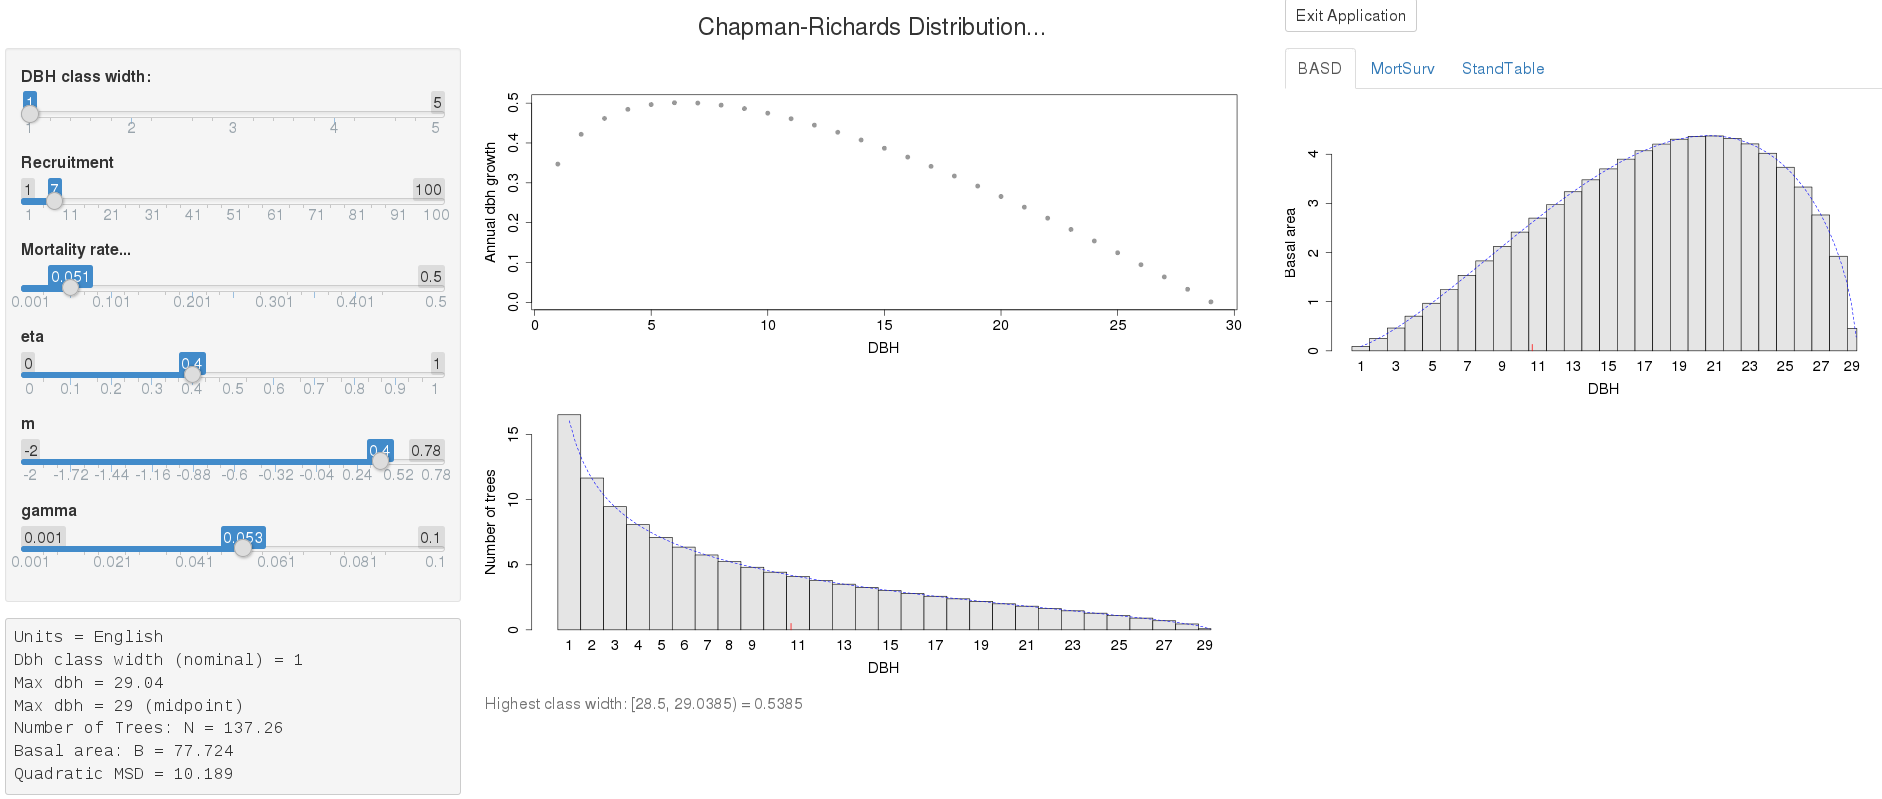
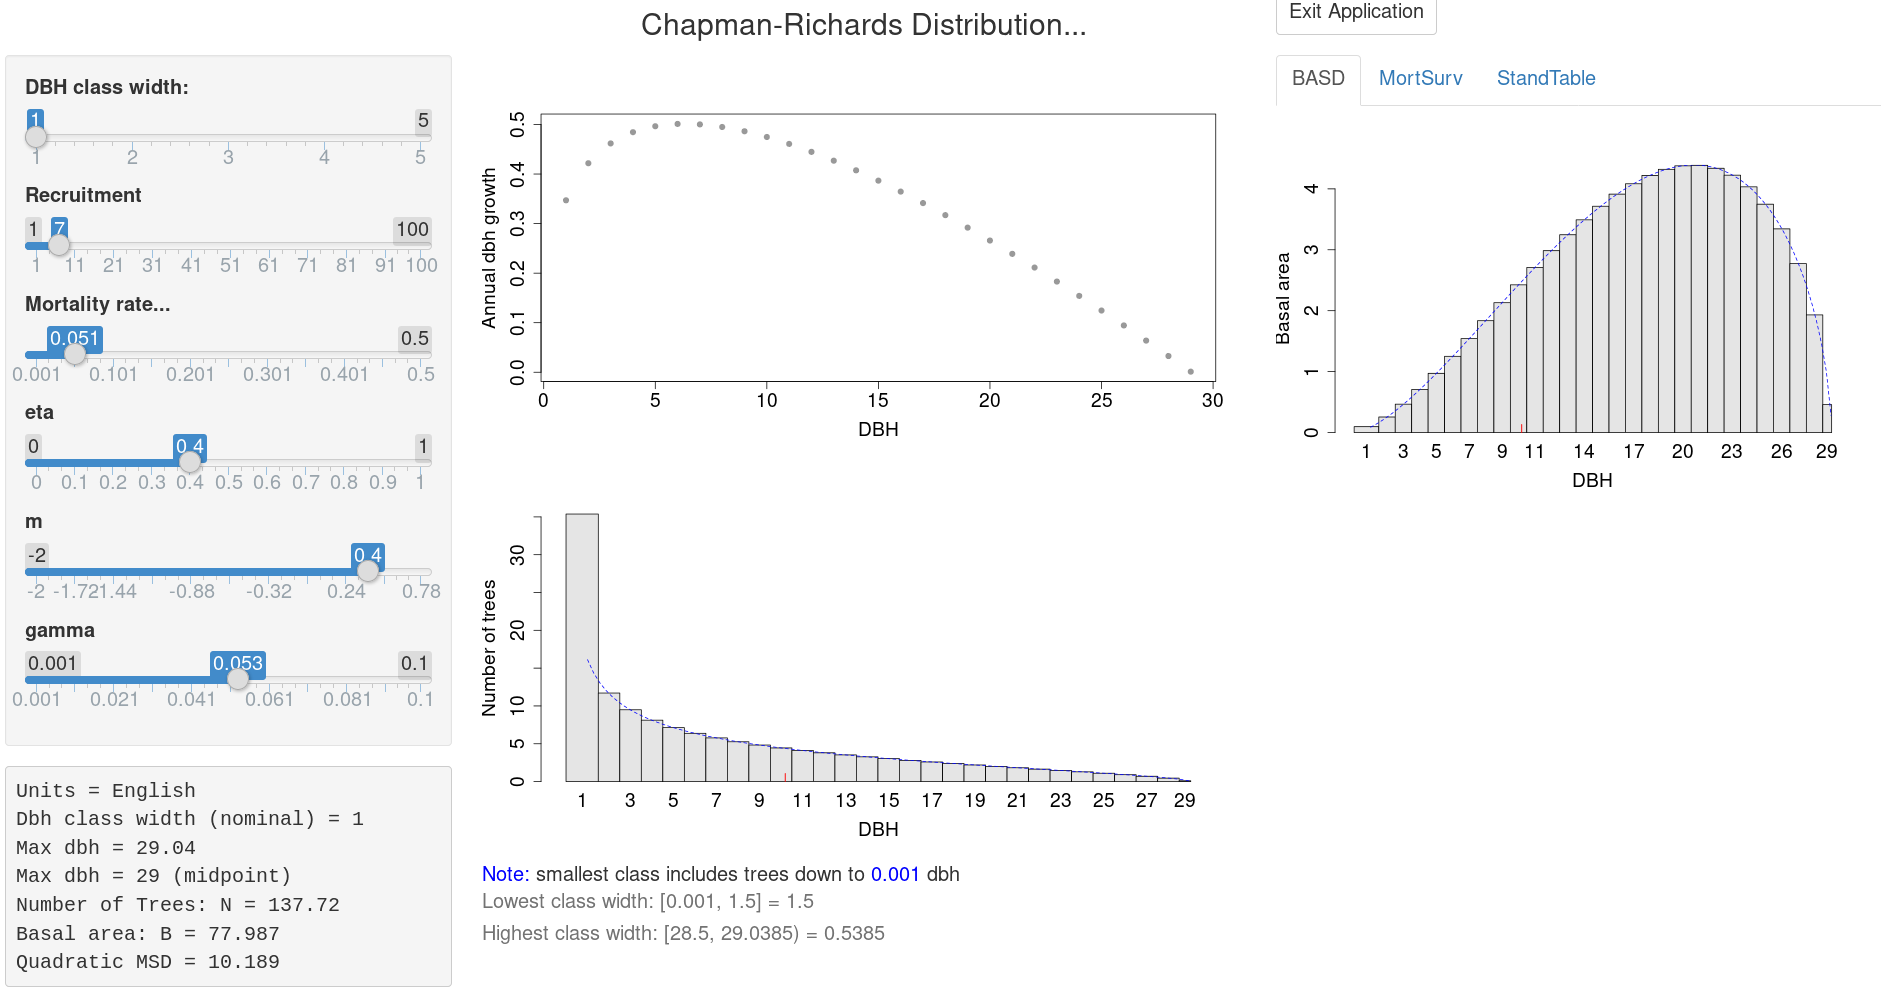
a couple changes to www
git-svn-id: svn://svn.r-forge.r-project.org/svnroot/mensuration@9 edb9625f-4e0d-4859-8d74-9fd3b1da38cb

diff --git a/www/index.html b/www/index.html
@@ -134,9 +134,24 @@
 
 <Rcode>install.packages("Mensuration", repos="http://R-Forge.R-project.org")</Rcode><br><br>
 
-Currently, the <Rpkg>Mensuration</Rpkg> package is 'stand-alone,' and does not rely on any
-other R packages.
+Currently, the <Rpkg>Mensuration</Rpkg> package relies on the R Shiny package.
 </p>
+
+<p> In order to use the Shiny applications, the <Rpkg>Mensuration</Rpkg> package requires
+    that the following package be installed prior to use. It is best to install the most
+    recent version from <acronym>CRAN</acronym> as&hellip;<br><br>
+
+  <Rcode>install.packages("shiny")</Rcode><br><br>
+
+    An optional package that will present tables in a more useable manner (see examples
+    below) is the <a href="https://rstudio.github.io/DT/"><Rpkg>DT</Rpkg> package</a>,
+    which supports JavaScript "DataTables"; this package is recommend and can be installed
+    with&hellip;<br><br>
+
+  <Rcode>install.packages("DT")</Rcode><br><br>
+
+</p>
+
 
 
 
@@ -151,10 +166,10 @@ versions if desired&hellip;
 
 <ol>
 
-  <li><!--<a href="https://r-forge.r-project.org/scm/viewvc.php/*checkout*/pkg/inst/doc/Mensuration.pdf?root=mensuration">-->
+  <li><a href="https://r-forge.r-project.org/scm/viewvc.php/*checkout*/pkg/inst/doc/Mensuration.pdf?root=mensuration">
 	  <em> The help file for the <Rclass>Mensuration</Rclass> Package </em></a><br><br>
 
-  <li><!--<a href="https://r-forge.r-project.org/scm/viewvc.php/*checkout*/pkg/inst/doc/Mensuration.pdf?root=mensuration">-->
+  <li><!--<a href="https://r-forge.r-project.org/scm/viewvc.php/*checkout*/pkg/inst/doc/MensurationUsersGuide.pdf?root=mensuration">-->
 	  Available soon&hellip;
 	  <em> The R <Rclass>Mensuration</Rclass> Package User's Guide </em></a><br><br>
 
@@ -186,13 +201,14 @@ The following paper details the development of the Chapman-Richards distribution
 Several examples of the supporting functions are shown in the package vignette cited
 above. Because of the interavtive nature of Shiny applications, only a screen shot of each
 application is shown here. Again, a more detailed narrative on each application is found
-in the package vignette.
+in the package vignette. The best course of action is to simply install the package and
+its dependency (Shiny) and give it a try.
 </p>
 
 
 <h3><Rcode>qDistnShiny</Rcode></h3>
 
-<p> The following is a snapshot of the interface that allows one to invision
+<p> The following is a snapshot of the interface that allows one to explore
   different <em>q</em> distibutions using the sliders to the left&hellip;
 </p>
 
@@ -207,9 +223,10 @@ in the package vignette.
 
 <h3><Rcode>crDistnShiny</Rcode></h3>
 
-<p> Similarly to the above, the following is a snapshot of the interface that allows one to invision
-  different Chapman-Richards distibutions using the sliders to the left; the following
-  shows a "rotated-sigmoid" distribution that is the default&hellip;
+<p> Similarly to the above, the following is a snapshot of the interface that allows one
+  to explore different Chapman-Richards distibutions using the sliders to the left; the
+  following shows a "rotated-sigmoid" distribution accompanied by the basal area-size
+  distribution (BASD); which are the defaults at creation time&hellip;
 </p>
 
 <!-- crDistnShiny -->
@@ -220,7 +237,17 @@ in the package vignette.
 
 <p> Note that the sliders are used to set the parameters of the Chapman-Richards growth
   equations (eta, m, and gamma) and the two other vital rates of the distribution:
-  Recruitment and Mmortality. 
+  "Recruitment" and "Mortality rate." More information on these parameter values and how
+  they affect the growth and resulting distributional shapes is given in the vignette and
+  the paper cited above. Also note that the figure shows all trees down to the very
+  smallest in the first class (in order to capture most of the numbers density in that
+  class near zero), which we are told is wider than the nominal width; this option may be
+  selected by calling the routine using: <Rcode>crDistnShiny(d0 = 0.001, includeTiny =
+  TRUE)</Rcode> (see the help page for more information on these and other arguments). We
+  are also told that the largest class is different from the nominal size, this results
+  because the Chapman-Richards growth model has a maximum size limit, which is inherited
+  by the distribution. The quadratic mean stand diameter is shown on both distributions
+  with the small red tick mark.
 </p>
 
 <p>The above is accompanied by the basal area-size distribution on the right of the
@@ -247,6 +274,25 @@ in the package vignette.
 </div>
 
 
+
+<h3> Summary </h3>
+
+<p> There are a number of other options for both of the Shiny applications illustrated
+  above---these are detailed in the package help pages, as are the other routines
+  available in the package. Both of the Shiny applications allow the user to explore the
+  results on distributional shape by changing the parameters for the respective
+  distribitions interactively in real time. The <em>q</em> distribution will always have a
+  negative exponential shape, but one can vary the diminution coefficient as well as the
+  other parameters to see what affect these changes have on the final stand structure. The
+  Chapman-Richards distribution is more complicated, and has many more shapes that can be
+  attained by reasonable changes to the vital rate parameters.
+</p>
+
+
+
+
+
+  
 
 
 </div> <!-- #content -->
